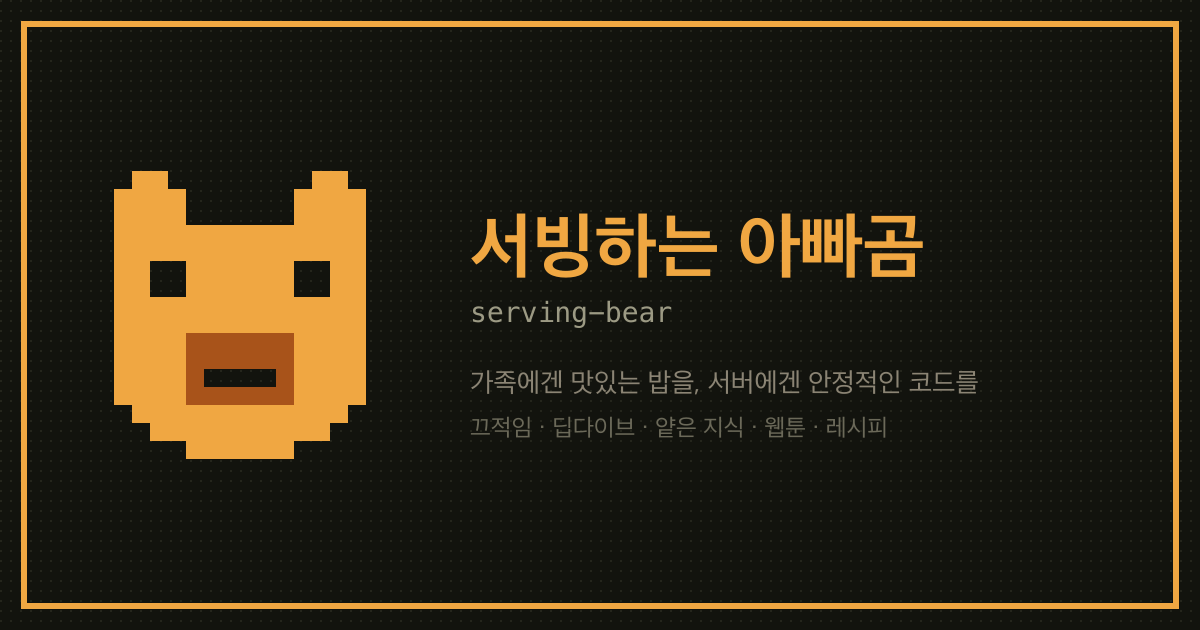
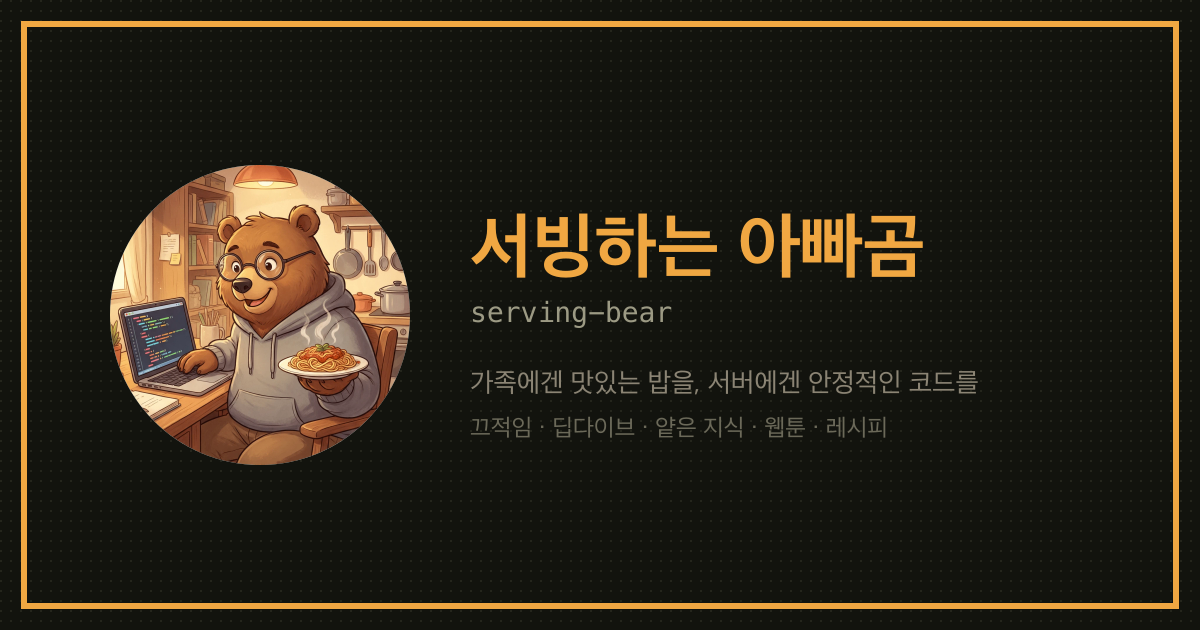
아바타 일러스트를 브랜드 마크로 — 도트 곰은 파비콘 전용
GitHub 프로필 이미지(노트북 앞에서 파스타를 내미는 곰)가
"서빙하는 아빠곰"을 문자 그대로 그린 그림이라 정체성이 훨씬 정확하다.

마크를 크기로 나눴다. 섞어 쓰지 않는다.
- 도트 곰 (favicon.svg)  : 16~32px. 일러스트는 이 크기에서 뭉개진다
- 일러스트 (avatar.webp) : 56px 이상. 도트는 이 크기에서 밋밋하다

- 홈 히어로·소개 페이지에 아바타 (72 → 104px)
- OG 이미지의 도트 곰을 일러스트로 교체
- 원형 마스크로 흰 모서리 제거 — 사각으로 두면 다크모드에서 밝은 사각형이 튄다.
  --radius: 0 의 유일한 예외이며 CLAUDE.md에 근거를 남김
- 화면용은 WebP(29K), OG는 크롤러 호환 때문에 PNG 유지
- assets/avatar-source.webp 를 레포에 두어 npm run brand 로 재생성 가능

Changed region(s): [[0.0925, 0.2413, 0.3392, 0.754]]

diff --git a/CLAUDE.md b/CLAUDE.md
@@ -84,6 +84,21 @@ Galmuri11은 11px 비트맵이라 **한글이 22px 미만에서 깨진다.** 22p
 `h1`~`h4` 기본값이 `--font-prose` 이고 도트를 원하면 `class="dot"` 을 명시해야 한다.
 22px 미만 도트 크기 토큰은 **일부러 만들지 않았다.** 작은 글자는 `--label`(0.8rem).
 
+### 마크가 둘이다 — 크기로 나눠 쓴다
+
+| 그림 | 파일 | 쓰는 곳 |
+|---|---|---|
+| 도트 곰 | `public/favicon.svg` | **16~32px** — 파비콘 전용 |
+| 일러스트 | `public/avatar.webp` | **56px 이상** — 홈 히어로, 소개, OG(`og-default.png`) |
+
+크기마다 살아남는 그림이 다르다. 일러스트는 파비콘 크기에서 뭉개지고,
+도트 곰은 큰 자리에서 밋밋하다. **섞어 쓰지 않는다.**
+
+아바타는 `border-radius: 50%` 로, **이 사이트에서 유일하게 둥근 요소다**(`--radius: 0` 의 예외).
+원본이 원형 구성이고, 사각으로 자르면 흰 모서리가 다크모드에서 밝은 사각형으로 튄다.
+
+전부 `npm run brand` 로 `assets/avatar-source.webp` 에서 재생성된다.
+
 ### 콘텐츠를 가운데 정렬하지 않는다
 
 모든 콘텐츠 컬럼은 `.wrap` 의 **왼쪽 끝에서 시작**하고 남는 공간은 오른쪽에 둔다.
